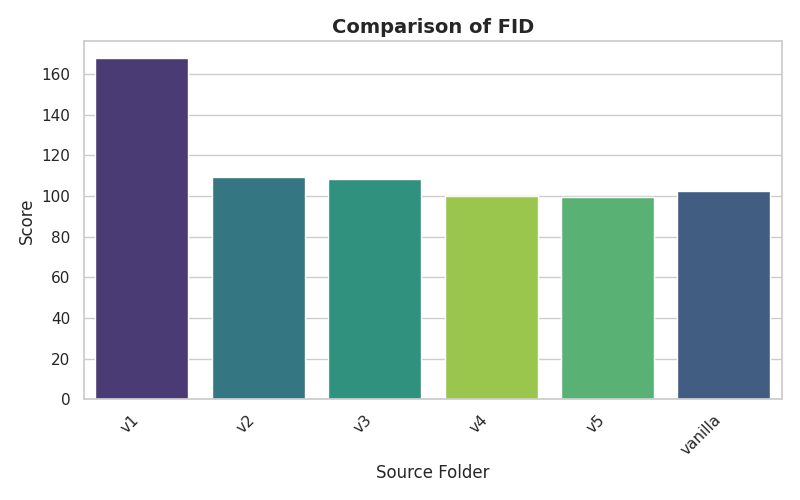
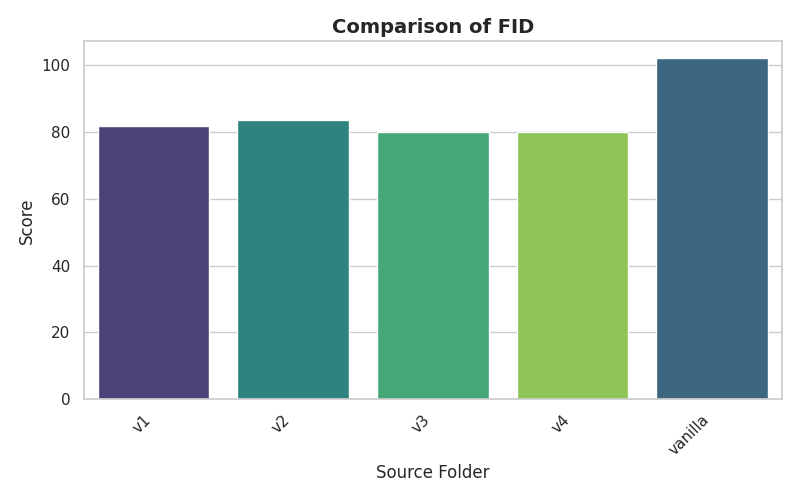
perpare semi final run

diff --git a/pipelines/v111_improved.py b/pipelines/v111_improved.py
@@ -1,0 +1,24 @@
+from pipelines.v10_improved import ImprovedInpaintPipelineV10
+from pipelines.pipeline import InpaintPipelineInput
+
+
+class ImprovedInpaintPipelineV111(ImprovedInpaintPipelineV10):
+    def __init__(self, **kwargs):
+        super().__init__(**kwargs)
+
+    def apply_freeu(self, s1=0.9, s2=0.2, b1=1.2, b2=1.4):
+        """
+        Modifies the UNet activations during the forward pass to prioritize
+        semantic structure over high-frequency background matching.
+        """
+        self.unet.enable_freeu(s1=s1, s2=s2, b1=b1, b2=b2)
+
+    def remove_freeu(self):
+        """Restores standard UNet architecture scaling."""
+        self.unet.disable_freeu()
+
+    def pipe(self, pipe_in: InpaintPipelineInput):
+        self.apply_freeu(s1=0.95, s2=0.8, b1=1.1, b2=1.1)
+        res = super().pipe(pipe_in)
+        self.remove_freeu()
+        return res

diff --git a/pipelines/v5_improved.py b/pipelines/v5_improved.py
@@ -1,11 +1,11 @@
-from pipelines.v4_improved import ImprovedInpaintPipelineV4
+from pipelines.v3_improved import ImprovedInpaintPipelineV3
 import torch
 from PIL import Image, ImageFilter
 import cv2 as cv
 import numpy as np
 
 
-class ImprovedInpaintPipelineV5(ImprovedInpaintPipelineV4):
+class ImprovedInpaintPipelineV5(ImprovedInpaintPipelineV3):
     def __init__(self, dilate_kernel_size=15, feather_radius=10, *args, **kwargs):
         super().__init__(*args, **kwargs)
         self.dilate_kernel_size = dilate_kernel_size

diff --git a/pipelines/v6_improved.py b/pipelines/v6_improved.py
@@ -1,10 +1,10 @@
 from pipelines.cross_attention import MaskedCrossAttnProcessor
-from pipelines.v4_improved import ImprovedInpaintPipelineV4
+from pipelines.v3_improved import ImprovedInpaintPipelineV3
 import torch
 from diffusers.models.attention_processor import AttnProcessor2_0
 
 
-class ImprovedInpaintPipelineV6(ImprovedInpaintPipelineV4):
+class ImprovedInpaintPipelineV6(ImprovedInpaintPipelineV3):
     def __init__(self, **kwargs):
         super().__init__(**kwargs)
 

diff --git a/pipelines/v12_improved.py b/pipelines/v12_improved.py
@@ -1,0 +1,8 @@
+from pipelines.v10_improved import ImprovedInpaintPipelineV10
+import torch
+
+
+class ImprovedInpaintPipelineV12(ImprovedInpaintPipelineV10):
+    def __init__(self, **kwargs):
+        super().__init__(**kwargs)
+
